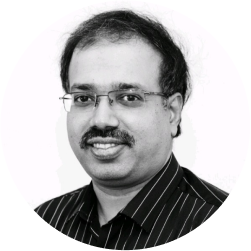
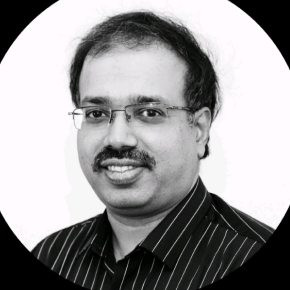
feat: add mentors
fix: mentor images

diff --git a/src/Components/Card/Card.css b/src/Components/Card/Card.css
@@ -24,8 +24,8 @@
 }
 
 .rounded__card__container {
-    height: 19rem;
-    width: 14rem;
+    /*height: 19rem;*/
+    width: 20rem;
 }
 
 .card__img__container {
@@ -37,7 +37,7 @@
 }
 
 .wrap__text {
-    width: 64%;
+    /*width: 64%;*/
 }
 
 .img__rounded {
@@ -93,6 +93,11 @@
         width: calc(var(--card-mobile-width) + 7rem);
     }
 
+    .rounded__card__container {
+        height: calc(var(--card-mobile-height) + 13.3rem);
+        width: calc(var(--card-mobile-width) + 7rem);
+    }
+
     .card__img__container {
         height: 13.8rem;
         flex-shrink: 0;
@@ -135,8 +140,8 @@
     }
 
     .rounded__card__container {
-        width: initial;
-        height: initial;
+        height: calc(var(--card-mobile-height) + 6.3rem);
+        width: calc(var(--card-mobile-width) + 2rem);
     }
 
 }
@@ -162,9 +167,16 @@
 }
 
 @media (max-width: 370px) {
+
+
     .card__container {
         height: calc(var(--card-mobile-height) + 1rem);
         width: calc(var(--card-mobile-width) - 1rem);
+    }
+
+    .rounded__card__container {
+        height: calc(var(--card-mobile-height) + 3rem);
+        width: calc(var(--card-mobile-width) - 0.7rem);
     }
 
     .non__rounded {
@@ -184,7 +196,7 @@
     }
 
     .rounded__card__container {
-        height: calc(var(--card-mobile-height) + 2rem);
+        height: calc(var(--card-mobile-height) + 3rem);
         width: calc(var(--card-mobile-width) + 0.2rem);
     }
 

diff --git a/src/Components/SpeakerSection/SpeakerSection.jsx b/src/Components/SpeakerSection/SpeakerSection.jsx
@@ -40,7 +40,7 @@ function SpeakerSection() {
         <div className="mentors__container">
         {mentorData.map((mentor) => (
           <div className="mentor__el mentor_1">
-            <Card imgUrl={mentor.img} name={mentor.name} des={mentor.desc}></Card>
+            <Card imgUrl={mentor.img} name={mentor.name} des={mentor.desc} rounded></Card>
           </div>
           ))}
         </div>

diff --git a/src/Components/SpeakerSection/SpeakerSection.css b/src/Components/SpeakerSection/SpeakerSection.css
@@ -46,7 +46,7 @@
     justify-content: center;
     align-items: center;
     justify-items: center;
-    row-gap: 3rem;
+    row-gap: 5rem;
     margin-top: 4rem;
     margin-bottom: 3rem;
 }
